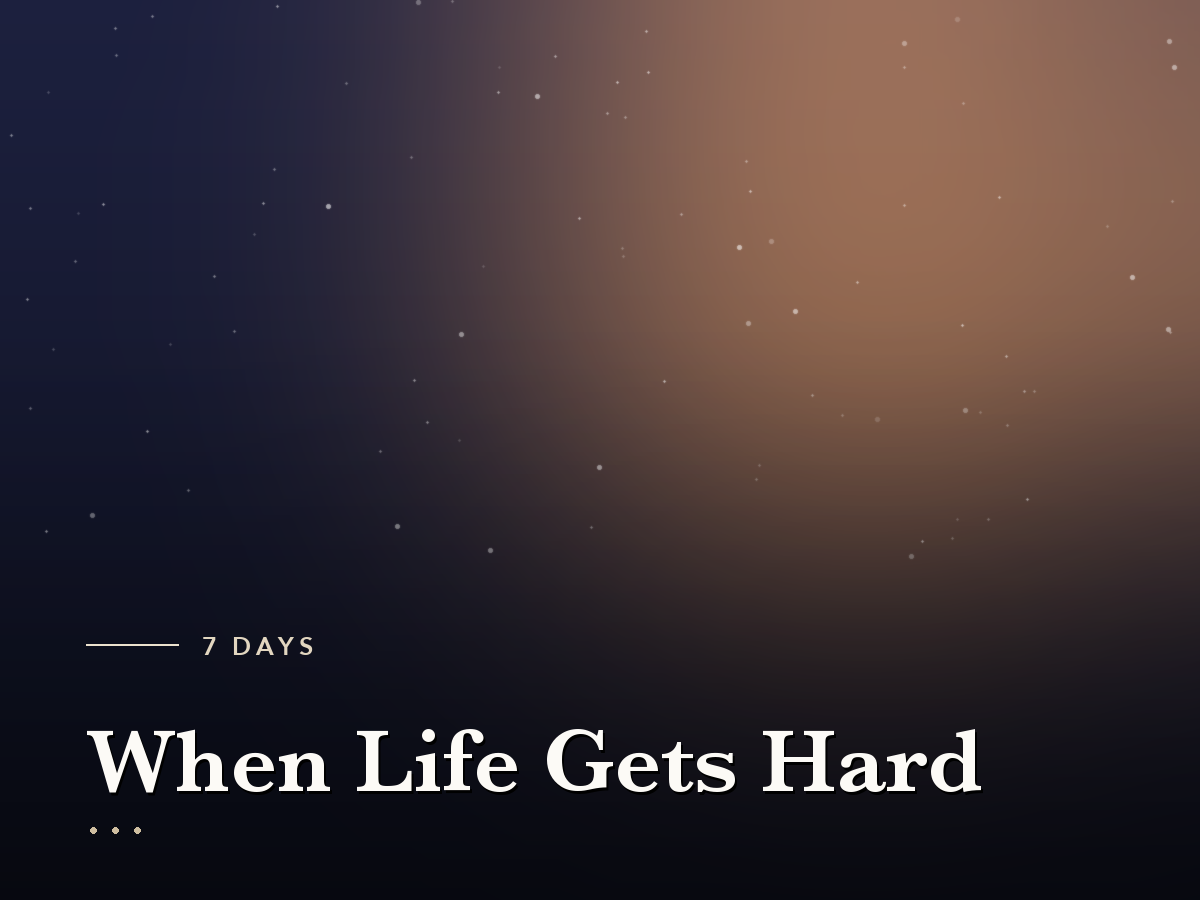
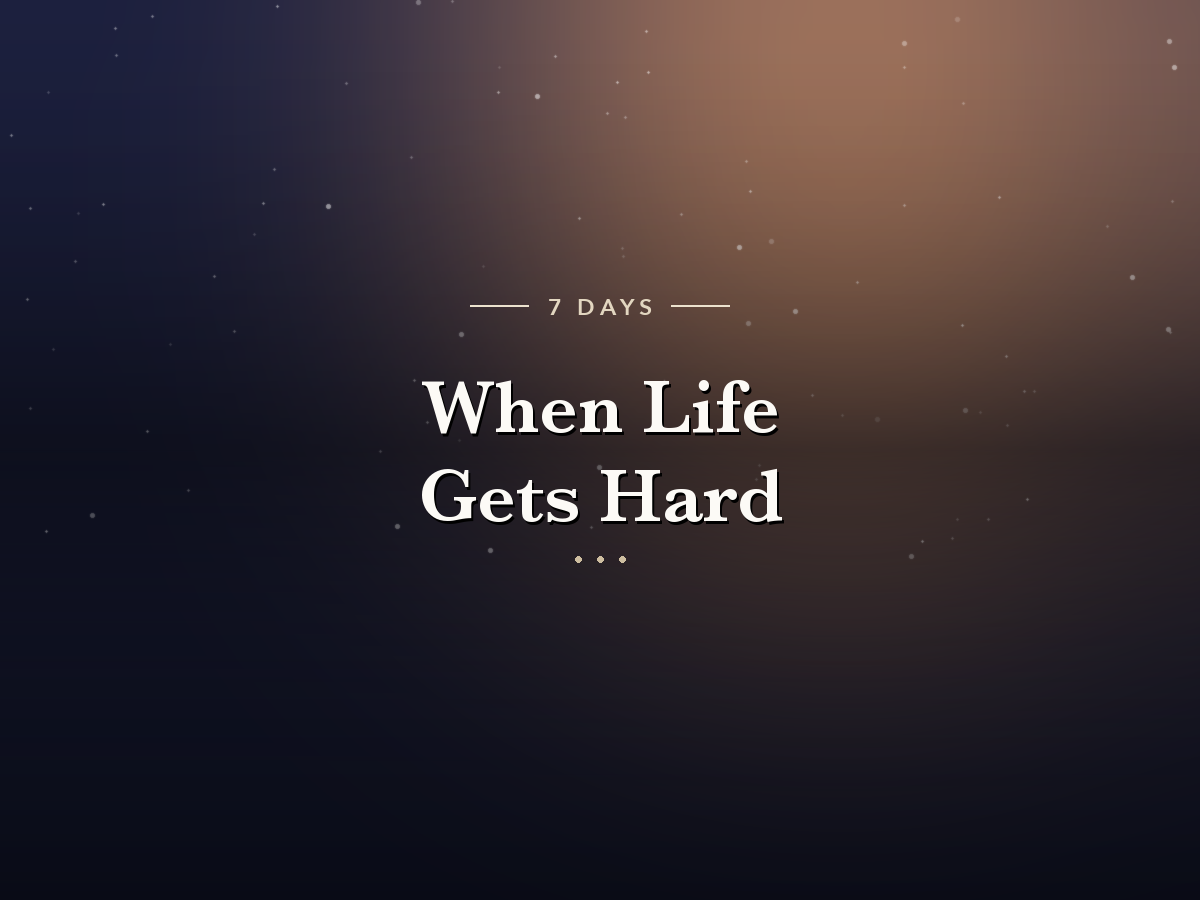
Centre the cover text so it survives however the card crops

Changed region(s): [[0.3392, 0.1556, 1.0, 0.5911], [0.0617, 0.8089, 0.8325, 0.9022], [0.185, 0.6844, 0.2467, 0.7467]]

diff --git a/scripts/make-plan-cover.py b/scripts/make-plan-cover.py
@@ -19,7 +19,13 @@ import random
 from PIL import Image, ImageChops, ImageDraw, ImageFilter, ImageFont
 
 W, H = 1200, 900
-MARGIN = 86
+
+# The card crops this to fill, and the aspect it crops to is the client's business, not
+# ours. So everything that must be readable lives inside a box that survives the whole
+# plausible range -- 16:9 (slices top and bottom) through 3:4 portrait (slices the
+# sides). Centred, because a crop eats the edges evenly.
+#   16:9  keeps y 112..788      3:4 portrait keeps x 262..937
+SAFE_W, SAFE_H = 640, 660
 
 SERIF = "/System/Library/Fonts/Supplemental/Baskerville.ttc"
 SANS = "/System/Library/Fonts/Avenir Next.ttc"
@@ -47,7 +53,7 @@ def background(top, bottom, glow, seed):
 
     # Screen, not blend: blending warm light into dark navy averages out to brown.
     light = Image.new("RGB", (W, H), (0, 0, 0))
-    gx, gy = int(W * 0.72), int(H * 0.26)
+    gx, gy = int(W * 0.70), int(H * 0.22)
     ImageDraw.Draw(light).ellipse(
         [gx - W * 0.30, gy - W * 0.30, gx + W * 0.30, gy + W * 0.30], fill=glow
     )
@@ -69,8 +75,10 @@ def background(top, bottom, glow, seed):
     scrim = Image.new("L", (W, H), 0)
     sdraw = ImageDraw.Draw(scrim)
     for y in range(H):
-        t = max(0.0, (y - H * 0.34) / (H * 0.66))
-        sdraw.line([(0, y), (W, y)], fill=int(165 * (t**1.4)))
+        # Darkest through the middle band, where the title sits, and eased at both ends
+        # so no crop reveals a hard edge.
+        t = 1.0 - min(1.0, abs(y - H * 0.5) / (H * 0.46))
+        sdraw.line([(0, y), (W, y)], fill=int(120 * (t**1.5)))
     return Image.composite(Image.new("RGB", (W, H), (6, 7, 12)), img, scrim)
 
 
@@ -83,11 +91,11 @@ def tracked(draw, xy, text, font, fill, tracking):
     return x
 
 
-def wrap(draw, text, font, width):
+def _greedy(draw, words, font, width):
     lines, line = [], ""
-    for word in text.split():
+    for word in words:
         trial = f"{line} {word}".strip()
-        if draw.textlength(trial, font=font) <= width and len(lines) < 4:
+        if not line or draw.textlength(trial, font=font) <= width:
             line = trial
         else:
             lines.append(line)
@@ -95,6 +103,31 @@ def wrap(draw, text, font, width):
     if line:
         lines.append(line)
     return lines
+
+
+def wrap(draw, text, font, width):
+    """
+    Wraps to balanced lines rather than greedy ones.
+
+    Greedy packing gives "When Life Gets / Hard", which looks like a mistake on a cover.
+    Narrowing the measure until the line COUNT would change finds the tightest width that
+    still fits, which evens the lines out.
+    """
+    words = text.split()
+    lines = _greedy(draw, words, font, width)
+    target = len(lines)
+    if target < 2:
+        return lines
+
+    lo, hi, best = 1, int(width), lines
+    while lo <= hi:
+        mid = (lo + hi) // 2
+        candidate = _greedy(draw, words, font, mid)
+        if len(candidate) <= target:
+            best, hi = candidate, mid - 1
+        else:
+            lo = mid + 1
+    return best
 
 
 def render(title, days, palette, out):
@@ -105,35 +138,45 @@ def render(title, days, palette, out):
     img = background(top, bottom, glow, seed)
     d = ImageDraw.Draw(img)
 
-    label = ImageFont.truetype(SANS, 25, index=2)  # Demi Bold
-    serif = ImageFont.truetype(SERIF, 92, index=4)  # SemiBold
+    label = ImageFont.truetype(SANS, 23, index=2)  # Demi Bold
+    serif = ImageFont.truetype(SERIF, 76, index=4)  # SemiBold
 
-    # Title first: it decides how much room everything above it gets.
-    lines = wrap(d, title, serif, W - MARGIN * 2)
-    while len(lines) > 3 and serif.size > 58:
-        serif = ImageFont.truetype(SERIF, serif.size - 8, index=4)
-        lines = wrap(d, title, serif, W - MARGIN * 2)
+    # Shrink until the title fits the safe box in at most three lines. A cover that
+    # overflows is worse than one set a size smaller.
+    lines = wrap(d, title, serif, SAFE_W)
+    while (len(lines) > 3 or max(d.textlength(l, font=serif) for l in lines) > SAFE_W) \
+            and serif.size > 40:
+        serif = ImageFont.truetype(SERIF, serif.size - 4, index=4)
+        lines = wrap(d, title, serif, SAFE_W)
 
-    line_h = int(serif.size * 1.16)
-    block_h = line_h * len(lines)
-    baseline = H - MARGIN - block_h
+    line_h = int(serif.size * 1.18)
+    rule_gap, dot_gap = 58, 54
+    block_h = rule_gap + line_h * len(lines) + dot_gap
+    y = (H - block_h) // 2
+    cx = W // 2
 
-    # Flair: a hairline rule, then the day count in tracked small caps above the title.
-    rule_y = baseline - 64
-    d.line([(MARGIN, rule_y), (MARGIN + 92, rule_y)], fill=(236, 226, 206), width=2)
-    tracked(d, (MARGIN + 116, rule_y - 14), f"{days} DAYS", label, (226, 214, 192), 4.5)
+    # Flair: hairline rule, then the day count in tracked small caps, both centred.
+    caps = f"{days} DAYS"
+    caps_w = sum(d.textlength(c, font=label) + 4.5 for c in caps) - 4.5
+    rule = 58
+    d.line([(cx - caps_w / 2 - rule - 20, y), (cx - caps_w / 2 - 20, y)],
+           fill=(236, 226, 206), width=2)
+    d.line([(cx + caps_w / 2 + 20, y), (cx + caps_w / 2 + rule + 20, y)],
+           fill=(236, 226, 206), width=2)
+    tracked(d, (cx - caps_w / 2, y - 13), caps, label, (226, 214, 192), 4.5)
 
-    for i, line in enumerate(lines):
-        y = baseline + i * line_h
-        # A soft drop shadow, so the serif holds up over the lighter part of the glow.
-        d.text((MARGIN + 2, y + 3), line, font=serif, fill=(0, 0, 0))
-        d.text((MARGIN, y), line, font=serif, fill=(252, 250, 246))
+    y += rule_gap
+    for line in lines:
+        w = d.textlength(line, font=serif)
+        d.text((cx - w / 2 + 2, y + 3), line, font=serif, fill=(0, 0, 0))
+        d.text((cx - w / 2, y), line, font=serif, fill=(252, 250, 246))
+        y += line_h
 
     # Flair: three small marks closing the block, like a printer's device.
-    y = H - MARGIN + 16
+    y += 18
     for i in range(3):
-        cx = MARGIN + 7 + i * 22
-        d.ellipse([cx - 3, y - 3, cx + 3, y + 3], fill=(206, 190, 160))
+        px = cx - 22 + i * 22
+        d.ellipse([px - 3, y - 3, px + 3, y + 3], fill=(206, 190, 160))
 
     pathlib.Path(out).parent.mkdir(parents=True, exist_ok=True)
     img.save(out, "PNG", optimize=True)
